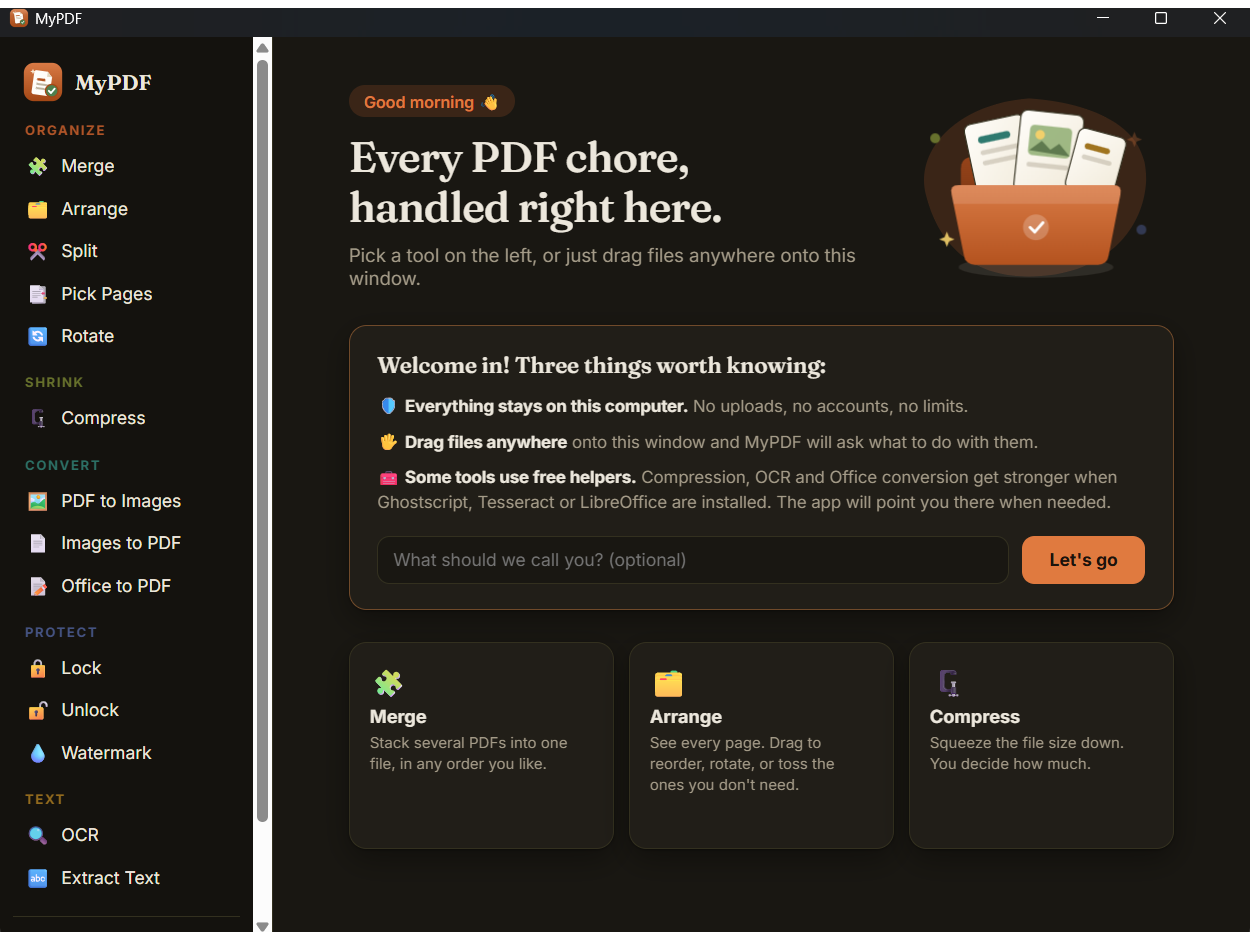
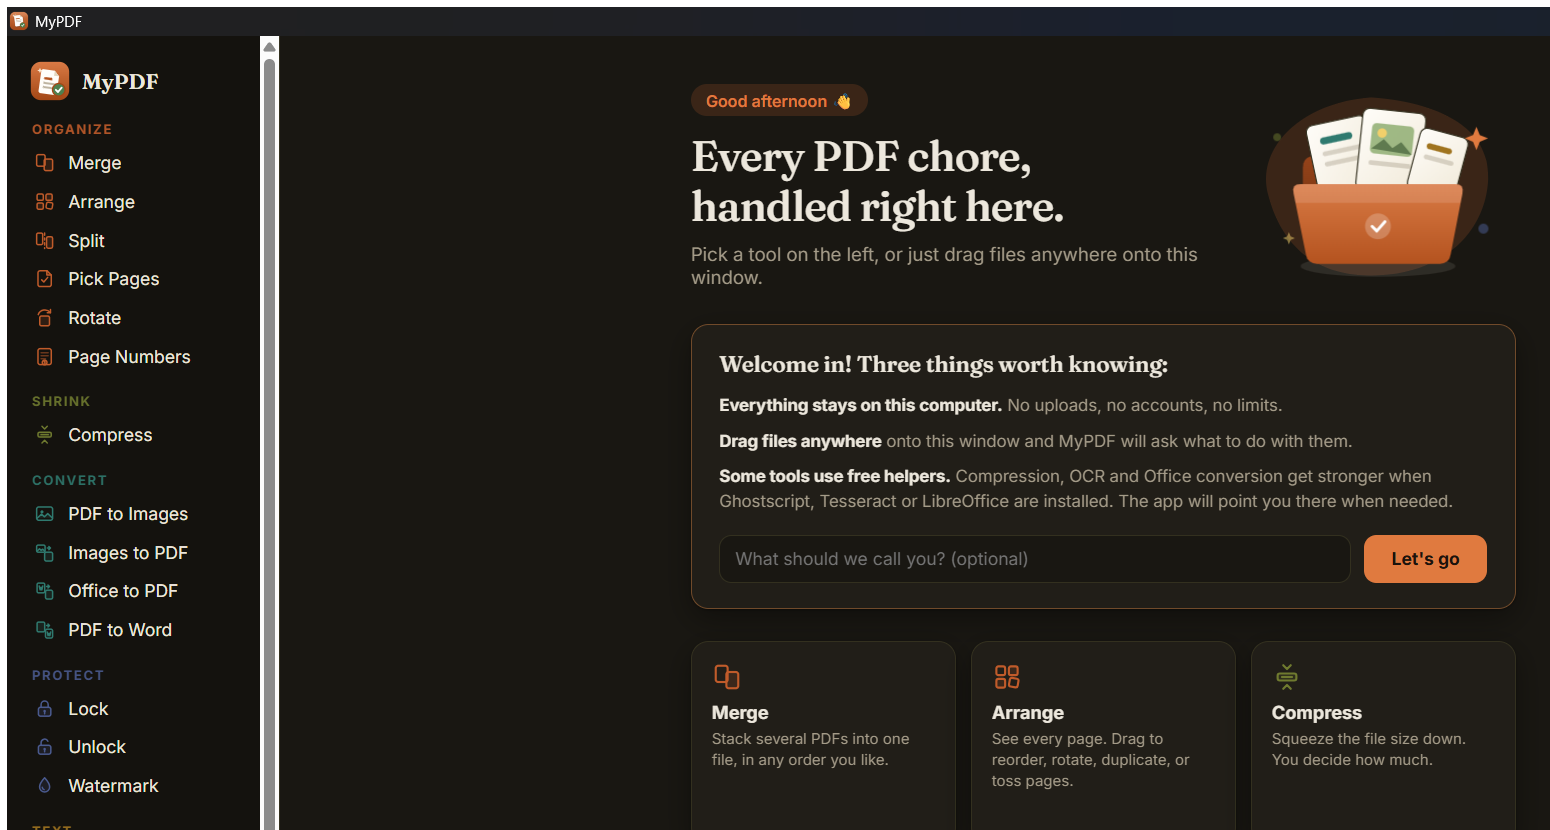
Add fresh v0.3.0 screenshot, readiness report, and startup application draft

diff --git a/docs/release-readiness-v0.3.0.md b/docs/release-readiness-v0.3.0.md
@@ -1,0 +1,67 @@
+# Release readiness report, MyPDF v0.3.0 (2026-10-08)
+
+Branch: `release/v0.3.0-readiness`. No tag has been pushed; the latest
+published release is still v0.2.0. Release notes in
+`docs/release-v0.3.0-draft.md` are a draft and must not be published until
+the clean Windows QA checklist (`docs/qa-checklist-v0.3.0.md`) passes.
+
+## Completed work
+
+- Fixed misleading packaging claims (README + release workflow): the Windows
+  installer bundles the Python runtime and engine libraries, while
+  Ghostscript, LibreOffice, and Tesseract remain optional per feature
+  helpers. The app already detects and reports them; docs now agree.
+- OCR resilience: a stale `TESSDATA_PREFIX` pointing at a missing folder no
+  longer breaks even English OCR (invalid value is dropped for the child
+  process, valid custom setups untouched). Missing language data now yields
+  `Tesseract has no language data for 'ind'...` instead of a traceback dump.
+  OCR options carry a tessdata hint in both languages.
+- OCR timeout now kills the child process instead of leaking it.
+- Engine errors normalized to English (office2pdf, ocrmypdf missing,
+  unknown task, compress fallback engine name).
+- UI: output paths use `/` so source runs on Linux/macOS no longer produce
+  backslash filenames; OCR missing helper notice names only what is actually
+  missing; `img2pdf` accepts a single image; image files get thumbnails.
+- `prepare-python.ps1` pins all five dependencies and verifies bundled
+  imports after install.
+- CI now covers the previous blind spots: Rust `cargo check`, engine smoke
+  with `pdf2docx` installed (real conversion path), and a Windows job that
+  prepares the exact bundled runtime and runs the smoke suite on it.
+- Regression tests added: image thumbnails, empty rearrange order, bad page
+  spec. Suite grew from 33 to 37 checks.
+- Fresh `docs/screenshot.png` captured from the running v0.3.0 app.
+
+## Test evidence (this machine, 2026-10-08)
+
+- `python tests/engine_smoke.py`: 37 passed, 0 failed (system Python 3.10).
+- `src-tauri/python-embed/python.exe tests/engine_smoke.py`: 37/37.
+- `npm run build`: clean (tsc + vite).
+- `cargo check --manifest-path src-tauri/Cargo.toml`: exit 0.
+- End to end on real files: office2pdf RTF to PDF ok; OCR English on an
+  image only PDF produced searchable text; OCR `ind+eng` without language
+  data gives the friendly error; compress via Ghostscript reports
+  `engine: ghostscript`.
+- Verified by code inspection: the app makes no network requests (no fetch in
+  `src/`, fonts bundled, no updater plugin), outputs never overwrite
+  (`unique_path`/`unique_dir` on every task), no secrets in the repo.
+
+## Unresolved risks (not verifiable from here)
+
+- No clean Windows machine available: installer build from the tag, install,
+  first launch with no system Python, and the full QA checklist are untested.
+- Installer size unknown until a release build runs (bundled runtime on disk
+  is ~335 MB; expect a large download).
+- Winget submission is still in moderation (`continue-on-error` covers it).
+- Landing page (`fahmiridho.me/mypdf/`) is built and validated locally in the
+  `web_portofolio` repo but not committed or deployed; deployment needs owner
+  approval. Domain email is not configured (owner action, see
+  `docs/startup-application-draft.md`).
+
+## Human actions required
+
+1. Run the QA checklist on a clean Windows 10/11 machine or VM.
+2. Only then: push the `v0.3.0` tag, confirm the installer artifact, publish
+   the release notes.
+3. Review, commit, and deploy the landing page; confirm `fahmiridho.me/mypdf/`.
+4. Configure and test the domain email before any startup application.
+5. Submit the startup application by hand only with truthful details.

diff --git a/docs/startup-application-draft.md b/docs/startup-application-draft.md
@@ -1,0 +1,65 @@
+# Claude Startups application, draft (DO NOT SUBMIT)
+
+Prepared 2026-10-08 from https://claude.com/programs/startups.
+Submission is an owner controlled gate: it needs human authentication in the
+Claude Console and truthful company details. Nothing here has been submitted.
+
+## Eligibility check (honest)
+
+- MyPDF is a solo open source project, not an incorporated company. The
+  program accepts bootstrapped projects with no VC funding, but review is
+  manual and acceptance is not automatic.
+- The application needs a company email matching the website domain. That
+  email does not exist yet, see Email setup below.
+- Do not present MyPDF as an incorporated company, do not invent users,
+  revenue, or AI features. Everything below is factual today.
+
+## Draft answers
+
+**Product.** MyPDF is a free, open source, offline Windows desktop app that
+handles everyday PDF work (merge, split, compress, convert, OCR, and more)
+without uploads, accounts, or tracking. AGPL 3.0, built with React, Tauri,
+and Python.
+
+**Customer problem.** People handling sensitive documents must choose between
+shady online converters (uploads leave the machine) and expensive proprietary
+suites. MyPDF does the same chores locally, in Indonesian and English.
+
+**Traction.** None to report yet. v0.3.0 is in release QA; installer download
+counts, when they exist, count downloads, not users. Do not quote them as
+users.
+
+**AI use case (roadmap, not shipped).** No AI features exist in the app today
+by design: the core promise is offline processing. The honest roadmap is one
+optional, explicit, user consented cloud feature: summarize or ask questions
+about a document via the Claude API, with the file sent only on request and
+the offline core untouched. Do not apply as an AI product; apply as a local
+first tool exploring one consented AI extension.
+
+**Prototype status.** Working desktop prototype, v0.3.0 pending final clean
+Windows QA. Public repo: https://github.com/fahmiridho07/mypdf
+
+**Business model.** Free and open source today; no revenue, no pricing, no
+incorporation. Any future model (supporter builds, managed team features) is
+undecided and must stay AGPL compatible.
+
+**Founder.** Solo developer, final year Information Systems student, building
+in the open. No team, no funding.
+
+## Email setup (owner action, required before applying)
+
+1. In the fahmiridho.me domain provider, create a real mailbox (not a
+   forwarder), e.g. `halo@fahmiridho.me` or `fahmi@fahmiridho.me`.
+2. Confirm it can both receive and send: mail yourself from another account,
+   reply, and check SPF/DKIM pass.
+3. Forwarding alone is not enough; the Console accepts a domain address you
+   can send from. Record the verification result here before applying.
+
+Email status: NOT CONFIGURED.
+
+## Submission gate
+
+Apply only when: v0.3.0 is publicly downloadable, fahmiridho.me/mypdf/ is
+live, the domain email sends and receives, and every answer above is still
+true. The owner signs in to
+https://platform.claude.com/offers/startups-application and submits by hand.
